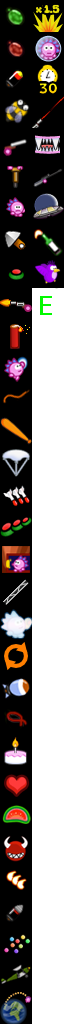
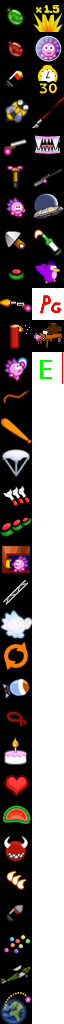
Engine: * Save screenshots to "Screenshots" sub directory * Added new ultimate weapon: Perform Beathoven's deadly sonata during the Piano Strike (this time for real! still missing some sounds/assets)

Changed region(s): [[0.5, 0.2812, 1.0, 0.375]]

diff --git a/QTfrontend/main.cpp b/QTfrontend/main.cpp
@@ -311,6 +311,7 @@ int main(int argc, char *argv[]) {
         {
             checkForDir(cfgdir->absolutePath() + "/Library/Application Support/Hedgewars/Demos");
             checkForDir(cfgdir->absolutePath() + "/Library/Application Support/Hedgewars/Saves");
+            checkForDir(cfgdir->absolutePath() + "/Library/Application Support/Hedgewars/Screenshots");
             checkForDir(cfgdir->absolutePath() + "/Library/Application Support/Hedgewars/Teams");
         }
         cfgdir->cd("Library/Application Support/Hedgewars");
@@ -323,6 +324,7 @@ int main(int argc, char *argv[]) {
             {
                 checkForDir(cfgdir->absolutePath() + "/Hedgewars/Demos");
                 checkForDir(cfgdir->absolutePath() + "/Hedgewars/Saves");
+                checkForDir(cfgdir->absolutePath() + "/Hedgewars/Screenshots");
                 checkForDir(cfgdir->absolutePath() + "/Hedgewars/Teams");
             }
             cfgdir->cd("Hedgewars");
@@ -333,6 +335,7 @@ int main(int argc, char *argv[]) {
             {
                 checkForDir(cfgdir->absolutePath() + "/.hedgewars/Demos");
                 checkForDir(cfgdir->absolutePath() + "/.hedgewars/Saves");
+                checkForDir(cfgdir->absolutePath() + "/.hedgewars/Screenshots");
                 checkForDir(cfgdir->absolutePath() + "/.hedgewars/Teams");
             }
             cfgdir->cd(".hedgewars");
@@ -342,6 +345,7 @@ int main(int argc, char *argv[]) {
         {
             checkForDir(cfgdir->absolutePath() + "/.hedgewars/Demos");
             checkForDir(cfgdir->absolutePath() + "/.hedgewars/Saves");
+            checkForDir(cfgdir->absolutePath() + "/.hedgewars/Screenshots");
             checkForDir(cfgdir->absolutePath() + "/.hedgewars/Teams");
         }
         cfgdir->cd(".hedgewars");
@@ -353,6 +357,7 @@ int main(int argc, char *argv[]) {
         {
             checkForDir(cfgdir->absolutePath() + "/Demos");
             checkForDir(cfgdir->absolutePath() + "/Saves");
+            checkForDir(cfgdir->absolutePath() + "/Screenshots");
             checkForDir(cfgdir->absolutePath() + "/Teams");
         }
     }
